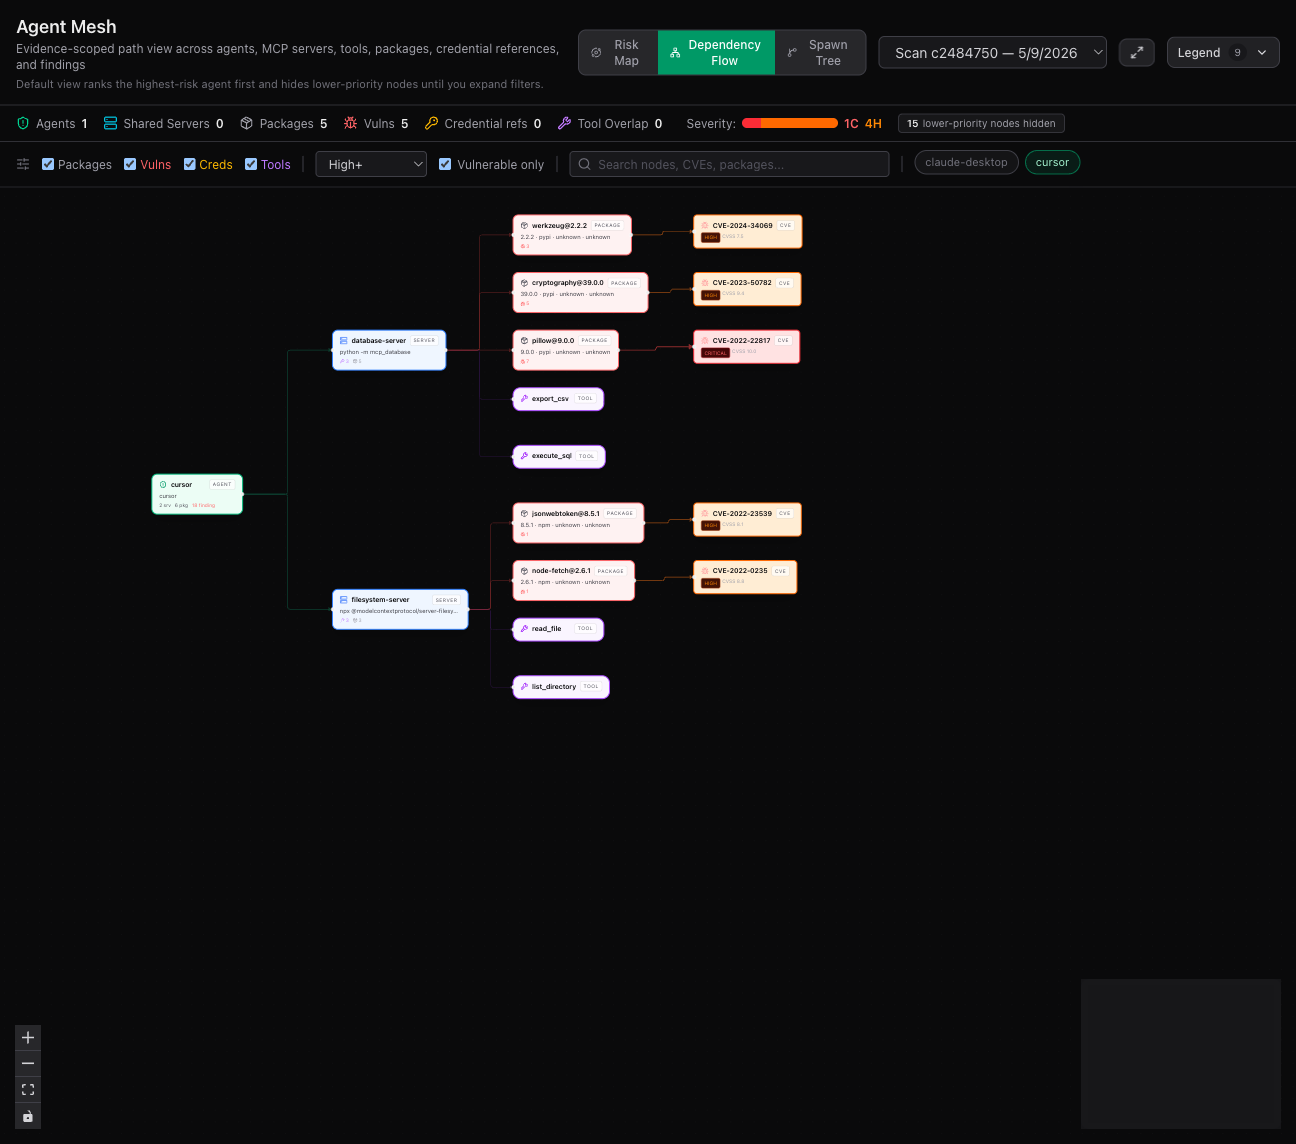
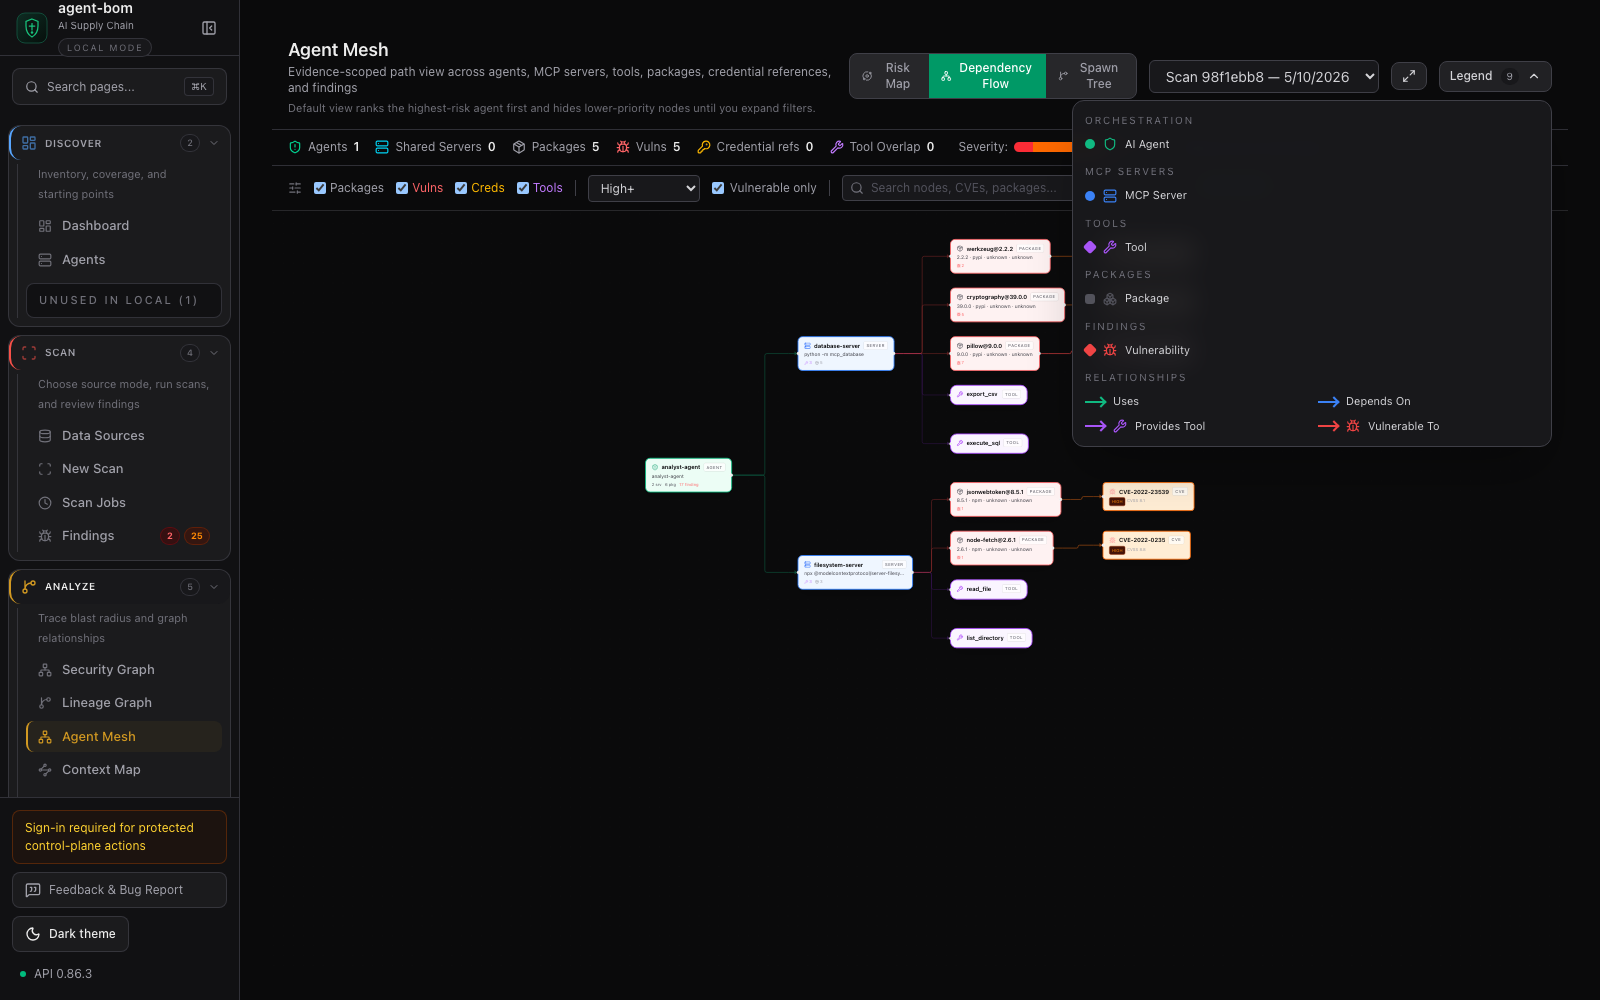
docs: refresh graph product evidence (#2469)
## Summary

- refreshes public graph product screenshots from real packaged
dashboard routes
- adds Security Graph, Lineage Graph investigation, and Dependency Map
evidence to the README and screenshot manifest
- documents the release guardrail that public graph evidence should
start from bounded operator workflows, with raw topology as drilldown
- records that the capture payload used generic public agent labels
while preserving the generated inventory, findings, relationships, and
traversal shape

## Validation

- `uv run agent-bom agents --demo --offline --no-auto-update-db -f json
-o /tmp/agent-bom-demo-report.json`
- `POST /v1/results/push` against the packaged dashboard/API on loopback
- Playwright capture of `/mesh?capture=1`, `/security-graph?capture=1`,
`/graph?capture=1&investigate=1&root=agent:analyst-agent&q=analyst-agent`,
and `/insights?capture=1`
- `uv run python scripts/check_release_consistency.py`
- `python -m json.tool docs/images/product-screenshots.json >/dev/null`
- `rg -n "cursor|claude|codex|openai|wiz|crowdstrike|orca" README.md
docs/CAPTURE.md docs/VISUAL_LANGUAGE.md
docs/images/product-screenshots.json
docs/release/SCREENSHOT_REFRESH_CHECKLIST.md
docs/release/product-screenshot-audit-v0.86.3.md || true`
- `git diff --check`

Changed region(s): [[0.0, 0.0, 0.9877, 0.992], [0.8333, 0.372, 0.8951, 0.434]]

diff --git a/docs/CAPTURE.md b/docs/CAPTURE.md
@@ -4,8 +4,8 @@ Published screenshots in `docs/images/` must come from the live product
 running against the bundled demo data, with the agent and scope chosen so
 the resulting graph is actually informative. PR #1445 regressed
 `mesh-live.png` to a near-empty graph because the captured agent
-(`claude-code`) had no servers in the local data — this protocol exists so
-that does not happen again.
+had no servers in the local data — this protocol exists so that does not
+happen again.
 
 The canonical published web UI is the packaged Next.js dashboard served by
 `agent-bom serve`. Do not publish README or docs screenshots from archived
@@ -51,6 +51,9 @@ before replacing any published product image.
 | `mesh-live.png` | `/mesh?capture=1` | Capture the full light-theme agent mesh graph across selected agents, MCP servers, tools, packages, credentials, and findings | Preserves the graph-backed product surface; capture mode tightens graph framing and hides minimap controls |
 | `mesh-dark-live.png` | `/mesh?capture=1` | Capture the same real product graph in dark theme | Proves theme parity without using a docs-only route |
 | `mesh-light-live.png` | `/mesh?capture=1` | Capture the same real product graph in light theme | Keeps dependency paths and finding edges readable in GitHub docs |
+| `security-graph-live.png` | `/security-graph?capture=1` | Capture the fix-first attack-path queue with snapshot pressure, graph evidence export, and remediation handoff | Shows the operator workflow before raw topology so the public image is readable and action oriented |
+| `lineage-graph-live.png` | `/graph?capture=1&investigate=1&root=agent:analyst-agent&q=analyst-agent` | Capture the root-centered lineage investigation with reachability summary, bounded paths, filters, and export controls | Uses a shipped graph drilldown workflow instead of an unreadable expanded topology capture |
+| `dependency-map-live.png` | `/insights?capture=1` | Capture the supply chain dependency map with scan pipeline counts and package risk distribution | Proves package risk visualization from the same pushed scan payload |
 | `remediation-live.png` | `/remediation` | All frameworks tab | Shows the full prioritized fix list |
 
 ### Dashboard layout (current)
@@ -68,14 +71,19 @@ A capture set that misses either frame is incomplete. Re-shoot from the
 packaged UI and crop deliberately; do not publish another full-page stitched
 dashboard asset unless the layout materially changes again.
 
-The `cursor` agent in `src/agent_bom/demo.py` is the best mesh hero shot in
-the current demo inventory — it brings the filesystem and database servers,
-multiple tools, reachable packages, and the densest CVE cluster
+Use the agent with filesystem and database servers as the graph hero shot in
+the current demo inventory. It brings multiple tools, reachable packages, and
+the densest CVE cluster
 (`pillow@9.0.0`, `cryptography@39.0.0`, `werkzeug@2.2.2`). Capturing under
 an unscoped or lower-signal agent risks a flatter graph. Use
 `/mesh?capture=1` for the full product graph in both dark and light themes so
 the graph is framed for README-scale evidence. Do not publish a docs-only slide
 or card view in place of the graph screenshot.
+
+For public release screenshots, sanitize demo agent labels before pushing the
+payload to the capture API. Keep the generated inventory, findings,
+relationships, and traversal shape intact, but use generic agent names in the
+visible UI.
 
 ## Accuracy guardrail
 

diff --git a/docs/release/product-screenshot-audit-v0.86.3.md b/docs/release/product-screenshot-audit-v0.86.3.md
@@ -1,11 +1,11 @@
 # Product Screenshot Audit v0.86.3
 
-Date: 2026-05-09
+Date: 2026-05-11
 
 ## Capture Path
 
-- Generated bundled demo data with `uv run agent-bom agents --demo --offline -f json`.
-- Ran the local API with `AGENT_BOM_DB=/tmp/agent-bom-capture.db uv run agent-bom serve --host 127.0.0.1 --port 8422`.
+- Generated bundled demo data with `uv run agent-bom agents --demo --offline --no-auto-update-db -f json -o /tmp/agent-bom-demo-report.json`.
+- Ran the local packaged API/dashboard on loopback with `AGENT_BOM_DB=/tmp/agent-bom-capture.db` and a capture-only local rate-limit override.
 - Pushed the demo payload through `POST /v1/results/push`.
 - Captured the current Next.js dashboard against that API for the README and docs product images.
 
@@ -16,14 +16,24 @@ Date: 2026-05-09
 | `docs/images/dashboard-live.png` | `/?capture=1` | `0.86.3` |
 | `docs/images/dashboard-paths-live.png` | `/?capture=1` | `0.86.3` |
 | `docs/images/remediation-live.png` | `/remediation` | `0.86.3` |
-| `docs/images/mesh-live.png` | `/mesh` | `0.86.3` |
-| `docs/images/mesh-dark-live.png` | `/mesh` | `0.86.3` |
-| `docs/images/mesh-light-live.png` | `/mesh` | `0.86.3` |
+| `docs/images/mesh-live.png` | `/mesh?capture=1` | `0.86.3` |
+| `docs/images/mesh-dark-live.png` | `/mesh?capture=1` | `0.86.3` |
+| `docs/images/mesh-light-live.png` | `/mesh?capture=1` | `0.86.3` |
+| `docs/images/security-graph-live.png` | `/security-graph?capture=1` | `0.86.3` |
+| `docs/images/lineage-graph-live.png` | `/graph?capture=1&investigate=1&root=agent:analyst-agent&q=analyst-agent` | `0.86.3` |
+| `docs/images/dependency-map-live.png` | `/insights?capture=1` | `0.86.3` |
 
-The mesh refresh preserves `mesh-live.png` as the full graph-backed product
-surface and adds dark/light captures from the same real `/mesh` route. The
-packaged dashboard route was also validated so `/mesh` serves the real mesh
-page rather than the root SPA fallback.
+The graph refresh keeps every published graph asset tied to a shipped product
+route. Mesh remains a graph-backed dark/light product surface. Security Graph
+shows the fix-first attack-path queue and evidence export controls. Lineage
+uses the root-centered investigation workflow so the public image stays
+bounded, readable, and data backed instead of publishing the raw expanded
+topology. Insights shows the dependency risk map from the same pushed demo
+scan.
+
+For public evidence, the bundled demo payload is label-sanitized before the
+push so screenshots use generic agent names while preserving the generated
+inventory, findings, relationships, and graph traversal behavior.
 
 ## Guardrail
 

diff --git a/docs/release/SCREENSHOT_REFRESH_CHECKLIST.md b/docs/release/SCREENSHOT_REFRESH_CHECKLIST.md
@@ -26,6 +26,9 @@ PR clearly explains why an asset is unchanged.
 | `mesh-live.png` | Full light-theme agent mesh graph with selected agents, MCP servers, tools, packages, credentials, and findings. |
 | `mesh-dark-live.png` | Full dark-theme agent mesh graph from the real `/mesh` product route. |
 | `mesh-light-live.png` | Full light-theme agent mesh graph from the real `/mesh` product route. |
+| `security-graph-live.png` | Fix-first attack path queue with snapshot pressure, graph evidence export, and remediation handoff. |
+| `lineage-graph-live.png` | Root-centered lineage investigation with reachable node counts, bounded paths, filters, and graph evidence export. |
+| `dependency-map-live.png` | Supply chain dependency map with scan pipeline counts and package risk distribution. |
 | `remediation-live.png` | Fix-first remediation table with prioritized packages and framework context. |
 
 ## Manifest
@@ -46,6 +49,8 @@ Before opening the PR, inspect every refreshed image:
   terminal windows, or dev overlays are visible
 - no empty graph, nearly empty graph, or unreadable dense graph is published as
   product evidence
+- graph evidence starts from an operator-readable workflow; raw expanded
+  topology is acceptable only as a drilldown, not as the default public image
 - text and critical UI affordances are readable at GitHub README scale
 - light/dark theme claims are backed by captured evidence when the PR says so
 - the image shows shipped product behavior, not roadmap copy or mock data that

diff --git a/README.md b/README.md
@@ -183,6 +183,24 @@ Agent-centered shared-infrastructure graph — selected agents, their MCP server
 
 ![agent-bom agent mesh light theme](https://raw.githubusercontent.com/msaad00/agent-bom/main/docs/images/mesh-light-live.png)
 
+### Security graph
+
+Fix-first attack paths stay explicit: the page starts with the highest-risk path queue, snapshot pressure, export controls, and the next remediation handoff instead of dropping operators into a dense raw topology.
+
+![agent-bom security graph attack path queue](https://raw.githubusercontent.com/msaad00/agent-bom/main/docs/images/security-graph-live.png)
+
+### Lineage investigation
+
+Root-centered graph drilldown keeps traversal bounded and readable: reachable node counts, affected entity types, bounded paths, filters, and evidence export are visible before broader topology review.
+
+![agent-bom lineage graph root investigation](https://raw.githubusercontent.com/msaad00/agent-bom/main/docs/images/lineage-graph-live.png)
+
+### Dependency map
+
+The Insights surface rolls scan pipeline counts into the supply-chain map so vulnerable packages stay expanded while clean inventory stays summarized.
+
+![agent-bom dependency risk map](https://raw.githubusercontent.com/msaad00/agent-bom/main/docs/images/dependency-map-live.png)
+
 </details>
 
 <details>

diff --git a/docs/VISUAL_LANGUAGE.md b/docs/VISUAL_LANGUAGE.md
@@ -39,6 +39,9 @@ Current PNG inventory:
 | `mesh-live.png` | Full light-theme agent mesh graph across agents, MCP servers, packages, tools, credentials, and findings | Product views |
 | `mesh-dark-live.png` | Full dark-theme agent mesh graph across the same scoped evidence model | Product views |
 | `mesh-light-live.png` | Full light-theme agent mesh graph across the same scoped evidence model | Product views |
+| `security-graph-live.png` | Fix-first attack-path queue with export controls and remediation handoff | Product views |
+| `lineage-graph-live.png` | Root-centered lineage investigation with bounded paths and reachability summary | Product views |
+| `dependency-map-live.png` | Supply chain dependency map with scan pipeline counts and package risk distribution | Product views |
 | `remediation-live.png` | Fix-first remediation surface | Product views |
 
 ## Mermaid — for code-true flows that evolve
